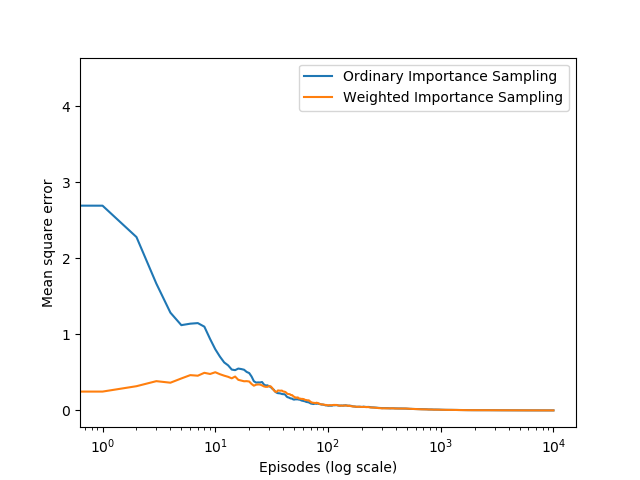
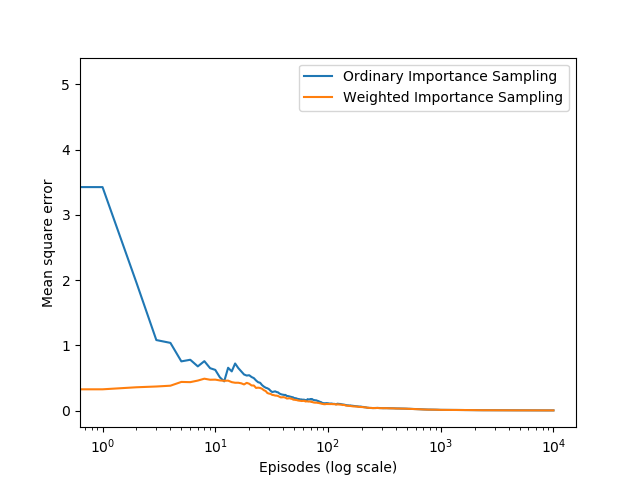
MC method

diff --git a/Chap_5/my_blackjack.py b/Chap_5/my_blackjack.py
@@ -38,13 +38,13 @@ def get_random_starts(episodes):
   return starts
 
 
-def play(policy, cards, start=None):
+def play(policy, cards, init_state=None, init_action=None):
   dealer_init_cards = cards.get_card(2)
   dealer_show = dealer_init_cards[-1]
   usable_ace = False
   ace = False
   trajectory = []
-  if start is None:
+  if init_state is None:
     player_init_cards = cards.get_card(2)
     player_sum = np.sum(player_init_cards)
     if 1 in player_init_cards:
@@ -56,11 +56,14 @@ def play(policy, cards, start=None):
       player_sum += hit_card
       ace = ace or hit_card == 1
       usable_ace = ace and (player_sum + 10 <= 21)
-    action = policy[player_sum + usable_ace * 10 - 12, dealer_show - 1, int(usable_ace)]
   else:
-    player_sum, dealer_show, usable_ace, action = start
+    player_sum, dealer_show, usable_ace = init_state
     player_sum -= usable_ace * 10
     dealer_init_cards[-1] = dealer_show
+  if init_action is None:
+    action = policy[player_sum + usable_ace * 10 - 12, dealer_show - 1, int(usable_ace)]
+  else:
+    action = init_action
 
   state = (usable_ace, player_sum, dealer_show)
 
@@ -129,7 +132,7 @@ def monte_carlo_on_policy(episodes):
 def monte_carlo_ES(episodes):
   cards = Cards()
   policy = np.zeros((10, 10, 2))
-  # policy[8:, :, :] = 1
+  policy[8:, :, :] = 1
   usable_ace_value = np.zeros((10, 10, 2))
   usable_ace_count = np.zeros_like(usable_ace_value)
   no_usable_ace_value = np.zeros((10, 10, 2))
@@ -137,7 +140,7 @@ def monte_carlo_ES(episodes):
 
   random_starts = get_random_starts(episodes)
   for random_start in tqdm(random_starts, ncols=64):
-    reward, trajectory = play(policy, cards, random_start)
+    reward, trajectory = play(policy, cards, random_start[:-1], random_start[-1])
     for state, action in trajectory:
       usable_ace, player_sum, dealer_show = state
       ps = player_sum + usable_ace * 10 - 12
@@ -155,6 +158,46 @@ def monte_carlo_ES(episodes):
   
   return usable_ace_value / (usable_ace_count + 1e-5), \
       no_usable_ace_value / (no_usable_ace_count + 1e-5)
+
+
+def monte_carlo_off_policy(episodes):
+  cards = Cards()
+  target_policy = np.zeros((10, 10, 2))
+  target_policy[8:, :, :] = 1
+  init_state = [13, 2, 1]
+  total_ordinary_value = np.zeros(episodes)
+  total_ordinary_count = np.zeros(episodes)
+  total_weighted_value = np.zeros(episodes)
+  total_weighted_count = np.zeros(episodes)
+  ordinary_value = 0
+  ordinary_count = 0
+  weighted_value = 0
+  weighted_count = 0
+  for i in range(episodes):
+    behavior_policy = np.random.randint(0, 2, (10, 10, 2))
+    reward, trajectory = play(behavior_policy, cards, init_state=init_state)
+    target_joint_prob = 1.
+    behavior_joint_prob = 1.
+    for state, action in trajectory:
+      usable_ace, player_sum, dealer_show = state
+      ps = player_sum + usable_ace * 10 - 12
+      ds = dealer_show - 1
+      if int(target_policy[ps, ds, int(usable_ace)]) != int(action):
+        target_joint_prob = 0
+        break
+      else:
+        behavior_joint_prob *= 0.5
+    rho = target_joint_prob / behavior_joint_prob
+    ordinary_value += rho * reward
+    ordinary_count += 1
+    weighted_value += rho * reward
+    weighted_count += rho
+    total_ordinary_value[i] = ordinary_value
+    total_ordinary_count[i] = ordinary_count
+    total_weighted_value[i] = weighted_value
+    total_weighted_count[i] = weighted_count
+  return total_ordinary_value / (total_ordinary_count + 1e-5), \
+      total_weighted_value / (total_weighted_count + 1e-5)
 
 
 def fig_5_1():
@@ -187,7 +230,7 @@ def fig_5_1():
 
 
 def fig_5_2():
-  states_usable_ace, states_no_usable_ace = monte_carlo_ES(10000000)
+  states_usable_ace, states_no_usable_ace = monte_carlo_ES(5000000)
 
   state_value_no_usable_ace = np.max(states_no_usable_ace[:, :, :], axis=-1)
   state_value_usable_ace = np.max(states_usable_ace[:, :, :], axis=-1)
@@ -221,6 +264,32 @@ def fig_5_2():
   plt.close()
 
 
+def fig_5_3():
+  true_value = -0.27726
+  episodes = 10000
+  runs = 100
+  error_ordinary = np.zeros(episodes)
+  error_weighted = np.zeros(episodes)
+  for i in tqdm(range(0, runs)):
+    ordinary_sampling_, weighted_sampling_ = monte_carlo_off_policy(episodes)
+    # get the squared error
+    error_ordinary += np.power(ordinary_sampling_ - true_value, 2)
+    error_weighted += np.power(weighted_sampling_ - true_value, 2)
+  error_ordinary /= runs
+  error_weighted /= runs
+
+  plt.plot(error_ordinary, label='Ordinary Importance Sampling')
+  plt.plot(error_weighted, label='Weighted Importance Sampling')
+  plt.xlabel('Episodes (log scale)')
+  plt.ylabel('Mean square error')
+  plt.xscale('log')
+  plt.legend()
+
+  plt.savefig('../images/figure_5_3.png')
+  plt.close()
+
+
 if __name__ == '__main__':
-  # fig_5_1()
+  fig_5_1()
   fig_5_2()
+  fig_5_3()

diff --git a/Chap_5/infinite_variance.py b/Chap_5/infinite_variance.py
@@ -1,0 +1,65 @@
+#######################################################################
+# Copyright (C)                                                       #
+# 2016-2018 Shangtong Zhang(zhangshangtong.cpp@gmail.com)             #
+# 2016 Kenta Shimada(hyperkentakun@gmail.com)                         #
+# Permission given to modify the code as long as you keep this        #
+# declaration at the top                                              #
+#######################################################################
+
+import numpy as np
+import matplotlib
+matplotlib.use('Agg')
+import matplotlib.pyplot as plt
+
+ACTION_BACK = 0
+ACTION_END = 1
+
+
+# behavior policy
+def behavior_policy():
+  return np.random.binomial(1, 0.5)
+
+
+# target policy
+def target_policy():
+  return ACTION_BACK
+
+
+# one turn
+def play():
+  # track the action for importance ratio
+  trajectory = []
+  while True:
+    action = behavior_policy()
+    trajectory.append(action)
+    if action == ACTION_END:
+      return 0, trajectory
+    if np.random.binomial(1, 0.9) == 0:
+      return 1, trajectory
+
+
+def figure_5_4():
+  runs = 10
+  episodes = 100000
+  for run in range(runs):
+    rewards = []
+    for episode in range(0, episodes):
+      reward, trajectory = play()
+      if trajectory[-1] == ACTION_END:
+        rho = 0
+      else:
+        rho = 1.0 / pow(0.5, len(trajectory))
+      rewards.append(rho * reward)
+    rewards = np.add.accumulate(rewards)
+    estimations = np.asarray(rewards) / np.arange(1, episodes + 1)
+    plt.plot(estimations)
+  plt.xlabel('Episodes (log scale)')
+  plt.ylabel('Ordinary Importance Sampling')
+  plt.xscale('log')
+
+  plt.savefig('../images/figure_5_4.png')
+  plt.close()
+
+
+if __name__ == '__main__':
+  figure_5_4()

diff --git a/test.py b/test.py
@@ -1,6 +1,5 @@
 import numpy as np
 
-
-a = ((1, 2), 3) in [((1, 2), 3), ((4, 5), 6)]
-(a, b, c), d = ((1, 2, 3), 3)
-print(a, b, c, d)
+behavior_policy = np.ones((10, 10, 2)) / 2.
+behavior_policy[:, :, :] = np.random.binomial(1, 0.5)
+print(np.random.randint(0, 2, (10, 10, 2)))

diff --git a/Chap_5/black_jack.py b/Chap_5/black_jack.py
@@ -376,5 +376,5 @@ def figure_5_3():
 
 if __name__ == '__main__':
   # figure_5_1()
-  figure_5_2()
-  # figure_5_3()
+  # figure_5_2()
+  figure_5_3()
